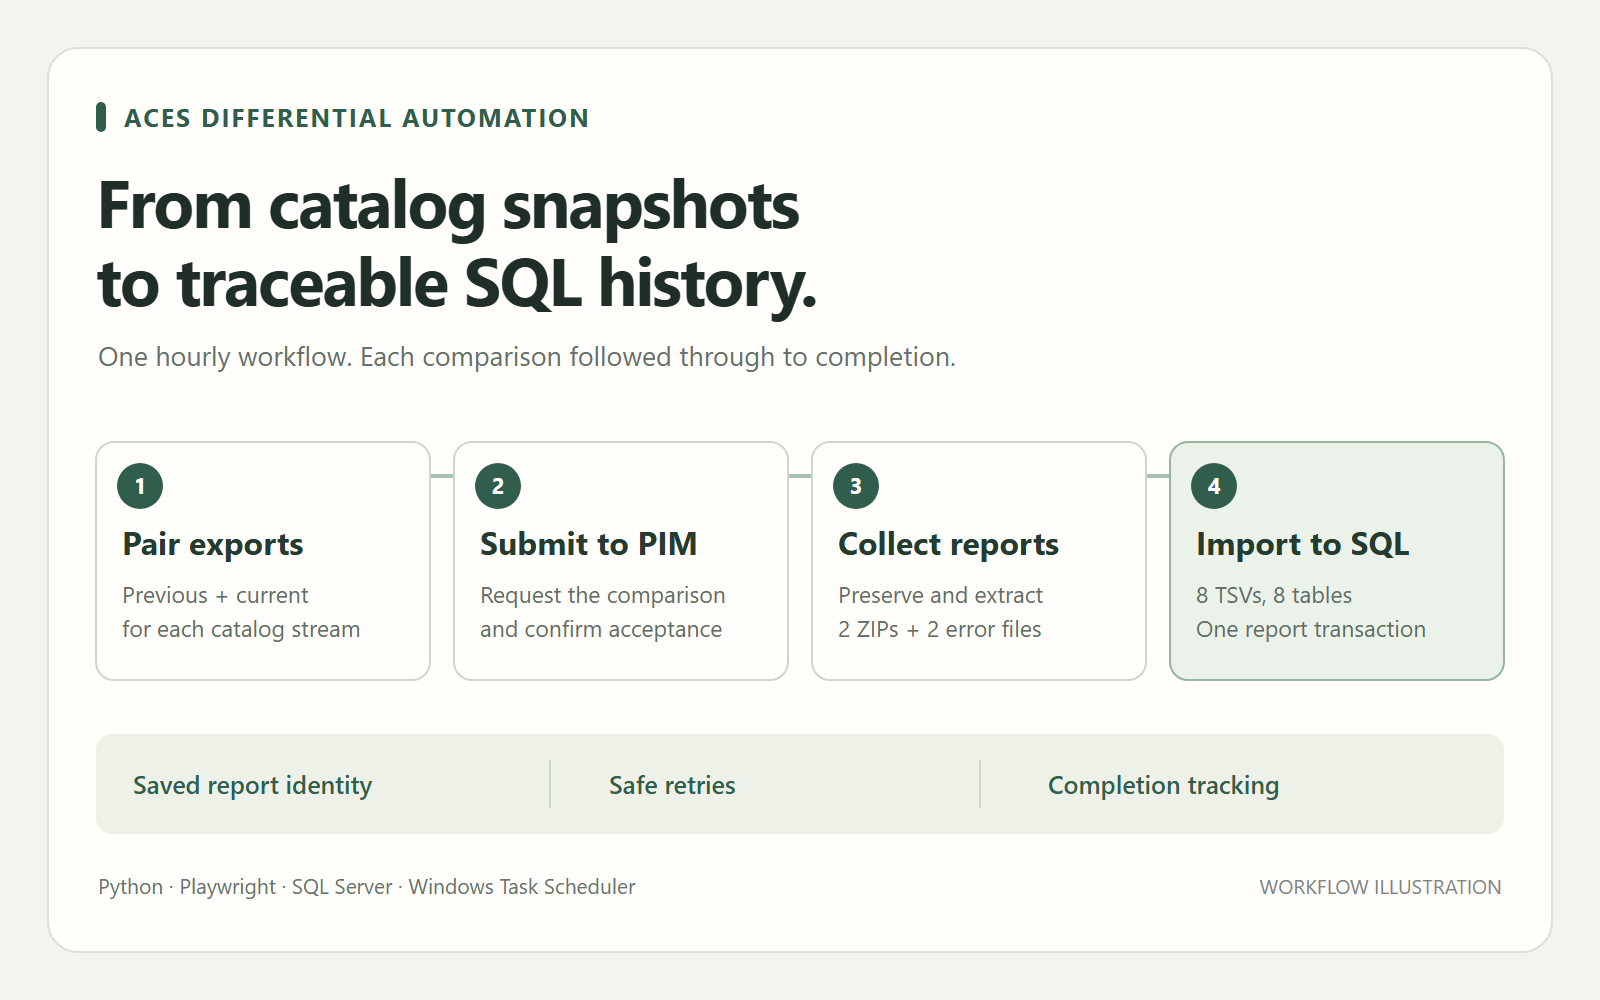
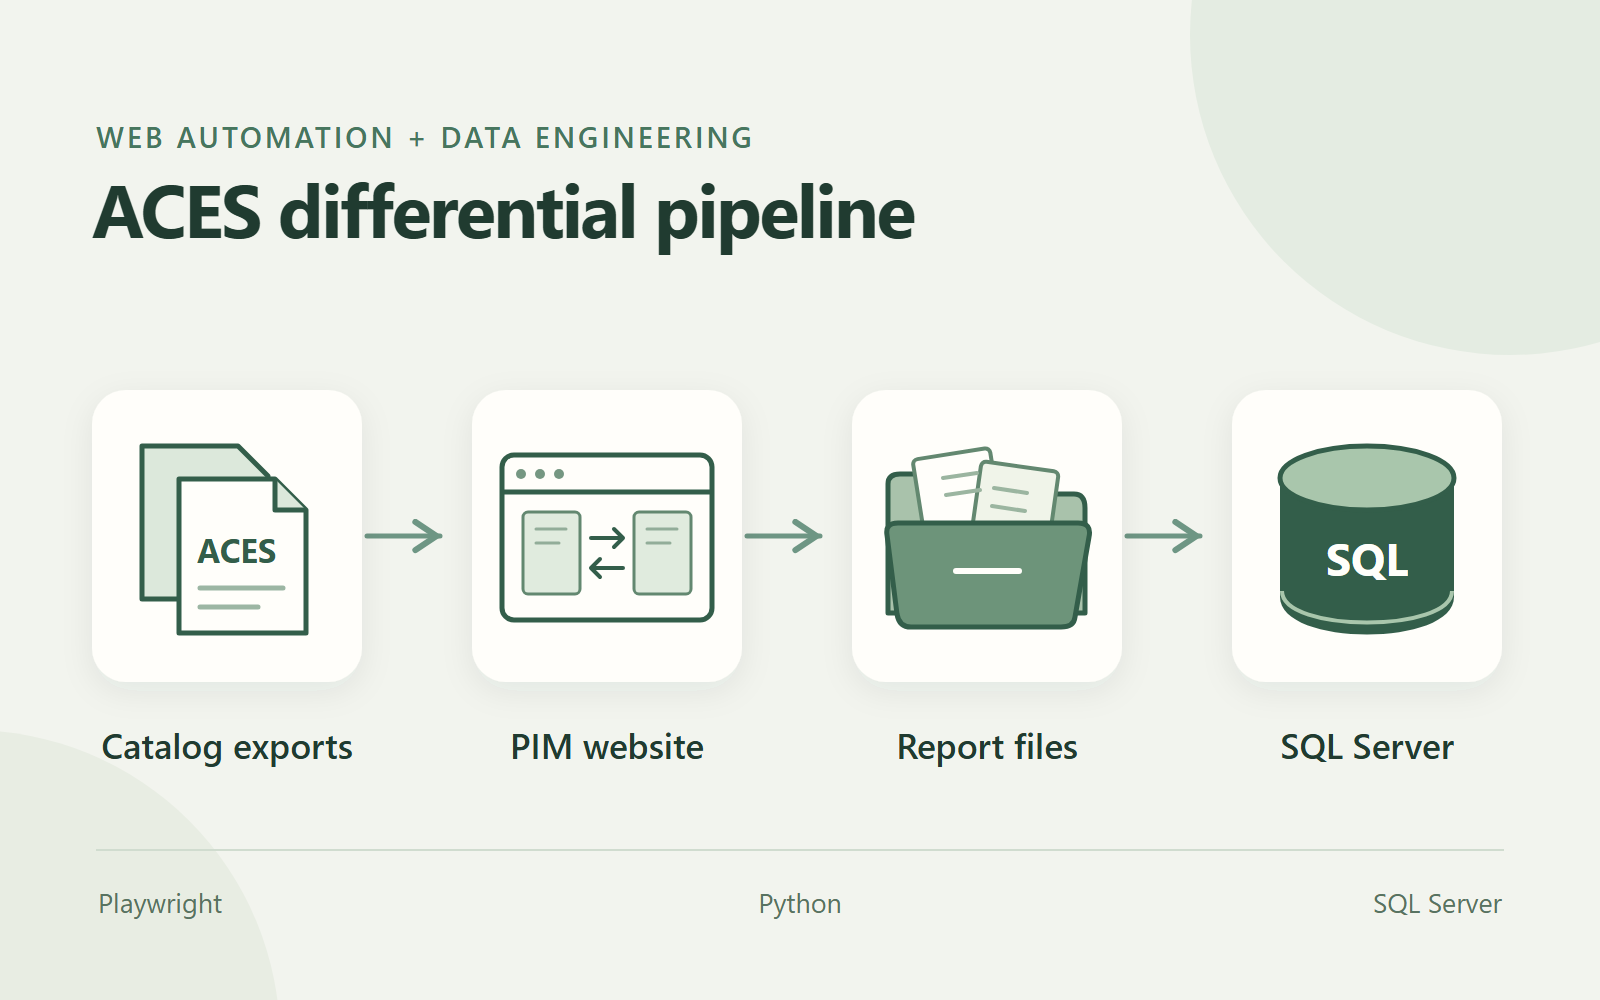
Emphasize web automation and refresh pipeline cover

diff --git a/README.md b/README.md
@@ -1,12 +1,14 @@
 # ACES Differential Automation
 
-**An hourly pipeline that turns recurring catalog comparisons into traceable SQL history.**
+**An automated data pipeline connecting the PIM website, report files, and SQL Server.**
 
-I built this workflow to coordinate ACES export discovery, comparison submission in a product information management system, report collection, and SQL Server imports. It replaces a sequence of manual handoffs with one scheduled process, while keeping uncertain submissions visible for review.
+I built this pipeline to combine web automation and data engineering: discover ACES exports, submit catalog comparisons through a product information management (PIM) website, collect completed reports, and deliver analysis-ready data in SQL Server.
+
+The workflow coordinates a browser session, asynchronous PIM processing, network files, SQL transactions, and email notifications. Each can fail independently. The pipeline records progress at each boundary, distinguishes safe retries from uncertain submissions, and recovers completed work without repeating it.
 
 **Status:** Deployed internally on Windows. **Built with:** Python · Playwright · SQL Server · Windows Task Scheduler · Outlook.
 
-![Workflow diagram: pair catalog exports, submit the comparison to PIM, collect report files, and commit eight TSV imports to SQL Server](assets/workflow-overview.png)
+![Pipeline illustration: catalog exports flow through automation of the PIM website, report collection, and SQL Server imports](assets/workflow-overview.png)
 
 *Illustration of the implemented workflow, not a screenshot or a simulated production run.*
 
@@ -58,6 +60,7 @@ The separate import log records the successful file imports, including zero-row 
 
 ## Engineering decisions that matter
 
+- **Automate a stateful website.** Playwright logs in, uploads two exports, waits for the exact files to become selectable, triggers the report-name field's UI events, and checks a fresh matching acceptance message. Browser failures are isolated so a later pair can start with a recovered browser session.
 - **Treat acceptance uncertainty differently from failure.** If the browser loses the confirmation after Compare may have been clicked, automatically resubmitting could create duplicate PIM work. That report remains `NeedsReview` instead.
 - **Commit one report together.** All eight imports and their log entries share a SQL transaction. A lost commit response is resolved from the durable SQL log on a later run, not by guessing whether the first attempt failed.
 - **Keep orchestration simple.** One controller prevents overlapping runs and gives each stage a timeout. SQL application locks and uniqueness constraints protect the database independently of the local tracker.
